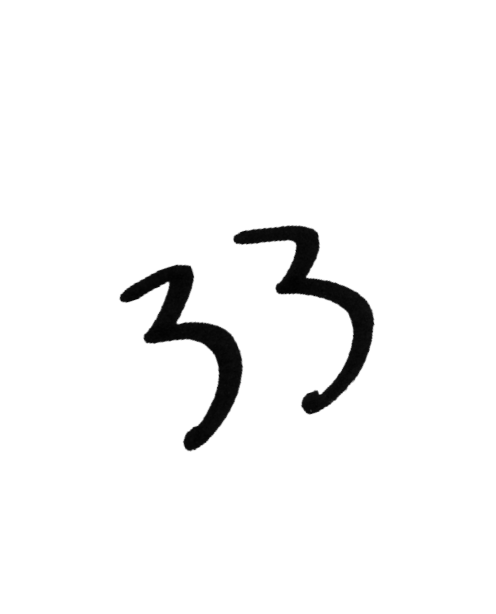
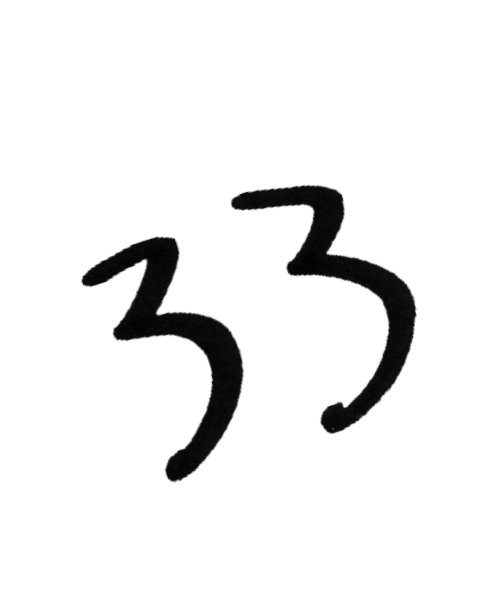
animation

Changed region(s): [[0.4536, 0.2785, 0.8468, 0.7117], [0.1512, 0.3713, 0.5141, 0.8046]]

diff --git a/src/pages/index.js b/src/pages/index.js
@@ -20,20 +20,26 @@ import simbol from "../images/pngs/simbol.png"
 import simbol2 from "../images/pngs/simbol2.png"
 import super1 from "../images/pngs/super1.png"
 import super2 from "../images/pngs/super2.png"
-import creu from "../images/pngs/creu.png"
+import creu from "../images/gifs/creu.gif"
 import cara2 from "../images/pngs/cara2.png"
 import cara from "../images/pngs/cara.png"
 import trentatres2 from "../images/pngs/trentatres2.png"
 import trentatres from "../images/pngs/trentatres.png"
+import ull2 from "../images/pngs/ullObert.png"
+import ull from "../images/pngs/ullTancat.png"
 
-import LoveIcon from "../images/love.png"
-import PeaceIcon from "../images/peace.png"
-import GloryIcon from "../images/glory.png"
+import LoveIcon from "../images/gifs/love.gif"
+import PeaceIcon from "../images/gifs/peace.gif"
+import GloryIcon from "../images/gifs/glory.gif"
 import DarkPeaceIcon from "../images/darkPeace.png"
-import Requesens from "../images/requesensLletres.png"
+import ullGif from "../images/gifs/ull.gif"
+import resurrectGif from "../images/gifs/resurrect.gif"
+import firmaGif from "../images/gifs/firma.gif"
 
 const Home = props => {
   const [closeIntro, setCloseIntro] = useState(false)
+  const [moveAnimation, setMoveAnimation] = useState(false)
+
   const [hoverLlamp, setHoverLlamp] = useState(false)
   const [hoverFlama, setHoverFlama] = useState(false)
   const [hoverSimbol, setHoverSimbol] = useState(false)
@@ -42,6 +48,7 @@ const Home = props => {
   const [hoverEstrella, setHoverEstrella] = useState(false)
   const [hoverTrentatres, setHoverTrentatres] = useState(false)
   const [hoverCara, setHoverCara] = useState(false)
+  const [hoverUll, setHoverUll] = useState(false)
 
   const intl = useIntl()
 
@@ -53,9 +60,12 @@ const Home = props => {
   useEffect(() => {
     localStorage.setItem("theme", "light")
     localStorage.setItem("gatsby-intl-language", "en")
+    setTimeout(() => {
+      setMoveAnimation(true)
+    }, 3000)
     const intro = setTimeout(() => {
       setCloseIntro(true)
-    }, 2500)
+    }, 4600)
     return () => clearTimeout(intro)
   }, [closeIntro])
 
@@ -67,9 +77,17 @@ const Home = props => {
     <div style={{ position: "relative" }}>
       {!closeIntro && (
         <div className={style.on_load}>
-          <div className={style.animation}>
-            <img src={Requesens} alt="Requesens intro" />
-          </div>
+          {!moveAnimation ? (
+            <div className={style.animation}>
+              <img src={resurrectGif} alt="resurrect gif" />
+              <p style={{color:'whitesmoke', fontSize:'30px'}}>X</p>
+              <img src={firmaGif} alt="firma gif" />
+            </div>
+          ) : (
+            <div className={style.animation}>
+              <img src={ullGif} alt="ull intro" />
+            </div>
+          )}
         </div>
       )}
       <Layout>
@@ -248,6 +266,27 @@ const Home = props => {
           <div className={style.bullet_container2}>
             <button
               className={style.bullet}
+              onBlur={() => setHoverUll(false)}
+              onMouseOut={() => setHoverUll(false)}
+              onMouseOver={() => setHoverUll(true)}
+              onFocus={() => setHoverUll(true)}
+            >
+              <img
+                className={style.darkPeace}
+                src={hoverUll ? ull2 : ull}
+                alt="ull logo"
+              />
+              <h5>{intl.formatMessage({ id: "home.bullet.name9" })}</h5>
+              <p>
+                {intl.formatMessage({ id: "home.bullet.description9.text1" })}
+                <b>
+                  {" "}
+                  {intl.formatMessage({ id: "home.bullet.description9.bold1" })}
+                </b>
+              </p>
+            </button>
+            <button
+              className={style.bullet}
               onBlur={() => setHoverTrentatres(false)}
               onMouseOut={() => setHoverTrentatres(false)}
               onMouseOver={() => setHoverTrentatres(true)}
@@ -280,7 +319,6 @@ const Home = props => {
                 {intl.formatMessage({ id: "home.bullet.description8.text1" })}
               </p>
             </button>
-            <div className={style.bullet}></div>
           </div>
           <button className={style.toGallery} onClick={() => changeBg()}>
             SEE THE GALLERY

diff --git a/src/components/Header/header.js b/src/components/Header/header.js
@@ -1,4 +1,4 @@
-import React from "react"
+import React, { useState, useEffect } from "react"
 import headerStyles from "./header.module.scss"
 import { useIntl, Link } from "gatsby-plugin-intl"
 import Burger from "./burger"
@@ -8,18 +8,25 @@ import { navigate } from "gatsby"
 import Popup from "../pop-up/pop-up"
 
 const Header = props => {
-  const intl = useIntl();
-  
+  const [galleryUnderline, setGalleryUnderline] = useState(false)
+  const intl = useIntl()
+
   const changeBg = () => {
-    localStorage.setItem("theme", 'light');
-    navigate('/gallery')
+    localStorage.setItem("theme", "light")
+    navigate("/gallery")
   }
-  
+
+  useEffect(() => {
+      if(window.location.href.indexOf("gallery") > -1) {
+        setGalleryUnderline(true)
+    }
+  }, [])
+
   return (
     <div className={headerStyles.container}>
       <header className={headerStyles.header}>
-        <Popup/>
-      <MediaQuery minWidth={950}>
+        <Popup />
+        <MediaQuery minWidth={950}>
           <nav className={headerStyles.nav}>
             <ul className={headerStyles.navList}>
               <li>
@@ -36,12 +43,11 @@ const Header = props => {
               </li>
               <li>
                 <button
-                  onClick={()=>changeBg()}
+                  onClick={() => changeBg()}
                   entry={{
                     delay: 0.3,
                   }}
-                  className={headerStyles.navItem}
-                  activeClassName={headerStyles.activeNavItem}
+                  className={galleryUnderline ? headerStyles.activeNavItem : headerStyles.navItem}
                 >
                   {intl.formatMessage({ id: "nav.gallery" })}
                 </button>

diff --git a/src/styles/home.module.scss b/src/styles/home.module.scss
@@ -12,8 +12,12 @@
     background-color:rgb(41, 41, 41);
     z-index: 9999999999999999;
   }
-  .on_load div{
-    font-size: 1.5rem;
+  .animation{
+      display: flex;
+      flex-direction: column;
+      justify-content: center;
+      align-items: center;
+        font-size: 1.5rem;
       -webkit-background-clip: text;
       -moz-background-clip: text;
       background-clip: text;
@@ -138,7 +142,8 @@ section{
     align-items: flex-start;
     margin: 0 auto;
     width: 100%;
-    padding-top: 0rem;
+
+    padding-top: 2rem;
     height: auto;
 }
 .bullet_container2{
@@ -161,7 +166,7 @@ section{
     text-align: center;
     transition: all .3s ease-in-out;
     border: none;
-    width: 30vw;
+    width: 250px;
     background-color: transparent;
     
     h5{

diff --git a/src/components/pop-up/pop-up.js b/src/components/pop-up/pop-up.js
@@ -18,9 +18,11 @@ export default function Popup() {
 
   return (
     <div className={styles.popup}>
-      <div className={styles.popupInner}>
-        <p>{intl.formatMessage({ id: "popup.text" })}
-        </p>
+      <div
+        className={styles.popupInner}
+      >
+        <p>{intl.formatMessage({ id: "popup.title" })}</p>
+        <p>{intl.formatMessage({ id: "popup.text" })}</p>
         <div className={styles.buttonContainer}>
           <button
             onKeyDown={() => setVisible(false)}

diff --git a/src/components/Footer/footer.js b/src/components/Footer/footer.js
@@ -128,6 +128,13 @@ const Footer = () => {
                 >
                   Youtube
                 </a>
+                <a
+                  className={footerStyles.normal_link}
+                  href="https://www.tiktok.com/@paurequesens?"
+                  target="blank"
+                >
+                  TikTok
+                </a>
               </div>
             </div>
           </MediaQuery>

diff --git a/src/components/Header/header.module.scss b/src/components/Header/header.module.scss
@@ -72,10 +72,14 @@
 }
 .navItem:hover {
     color:var(--btn-hover);
+    cursor: pointer;
 }
 .activeNavItem {
+    font-size: 0.9rem;
+    font-weight: 700;
     color: var(--active-btn);
-    border-bottom: 2px solid var(--active-btn);
+    cursor: pointer;
+    border-bottom: 2px solid var(--active-btn) !important;
 }
 .lang_container{
     color: var(--btn);

diff --git a/src/pages/video.jsx b/src/pages/video.jsx
@@ -5,7 +5,7 @@ import Layout from "../components/Layout/layout"
 import SEO from "../components/seo"
 import YouTube from "react-youtube"
 import Loader from "react-loader-spinner"
-import resurrect from "../images/pngs/resurrect.png"
+import resurrect from "../images/gifs/resurrect.gif"
 
 const makingOff = [
   "sMTo46GvIU4",

diff --git a/gatsby-config.js b/gatsby-config.js
@@ -93,7 +93,7 @@ module.exports = {
         background_color: `#663399`,
         theme_color: `#663399`,
         display: `minimal-ui`,
-        icon: `src/images/favicon.png`, // This path is relative to the root of the site.
+        icon: `src/images/favicon.png`, 
       },
     },
     `gatsby-plugin-sharp`,

diff --git a/src/components/pop-up/popup.module.scss b/src/components/pop-up/popup.module.scss
@@ -6,7 +6,7 @@ top: 4rem;
 
 .popupInner{
     width: 250px;
-    padding: 1rem;
+    padding: 0.5rem 1rem;
     background-color:rgba(41, 41, 41, 0.863);
     z-index: 9999999;
     box-shadow: 0px 6px 25px 2px #696969c7;

diff --git a/src/styles/index.scss b/src/styles/index.scss
@@ -15,7 +15,7 @@ a{
 html, #root{
     width: 100vw;
     height: 100vh;
-    background-color: whitesmoke;
+    background-color: #292929;
 }
 
 body {
